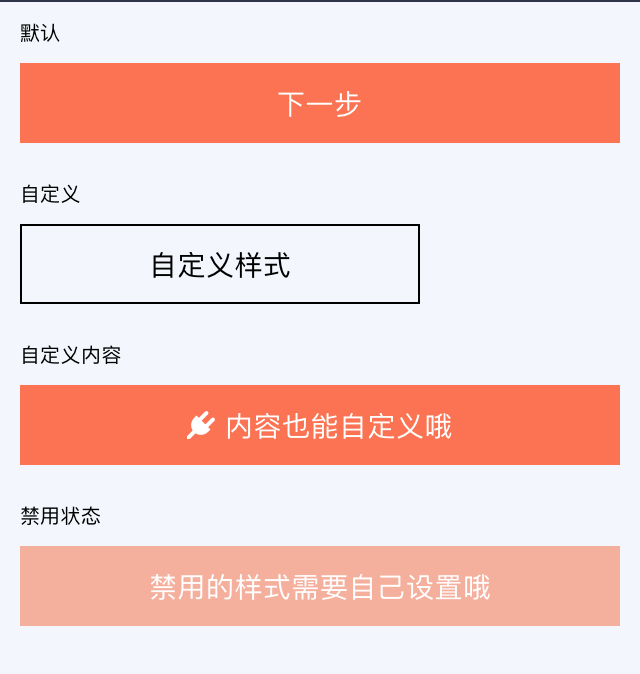
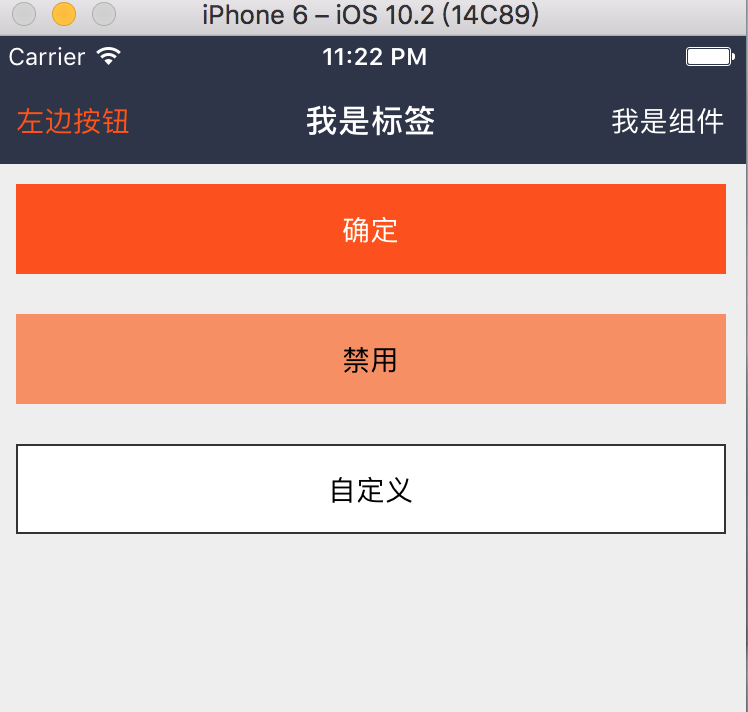
add btn

diff --git a/src/ui/Btn/index.js b/src/ui/Btn/index.js
@@ -1,106 +1,69 @@
 /**
  * 按钮
  */
-import React, {
-  Component,
-  PropTypes,
-} from 'react';
-import {
-  StyleSheet,
-  Text,
-  TouchableOpacity,
-  View,
-} from 'react-native';
+import React from 'react';
+import PropTypes from 'prop-types';
+import { Text, TouchableOpacity, View } from 'react-native';
+import { ACTIVE_OPACITY, NOOP } from '../constant';
+import styles from './style';
 
-import {
-  COLOR_THEME,
-  ACTIVE_OPACITY,
-} from '../constant';
-
-const styles = StyleSheet.create({
-  container: {
-    height: 45,
-    overflow: 'hidden',
-    backgroundColor: COLOR_THEME,
-  },
-  contentContainerStyle: {
-    flex: 1,
-    alignItems: 'center',
-    justifyContent: 'center',
-  },
-  text: {
-    color: '#fff',
-  },
-});
-
-class Btn extends Component {
-  render() {
-    let content = this.props.children;
-    if (typeof content === 'string') {
-      content = (
-        <Text style={[styles.text, this.props.textStyle]}>
-          {content}
-        </Text>
-      );
-    }
-
-    let onPress = this.props.onPress;
-    let activeOpacity = this.props.activeOpacity;
-    if (this.props.disabled) {
-      onPress = null;
-      activeOpacity = 1;
-    }
-
-    return (
-      <View
-        style={[styles.container, this.props.style]}
-        hitSlop={this.props.hitSlop}
-      >
-        <TouchableOpacity
-          activeOpacity={activeOpacity}
-          onPress={onPress}
-          style={[styles.contentContainerStyle, this.props.contentContainerStyle]}
-          hitSlop={this.props.hitSlop}
-        >
-          {content}
-        </TouchableOpacity>
-      </View>
+function Btn(props) {
+  let content = props.children;
+  if (typeof content === 'string') {
+    content = (
+      <Text style={[styles.text, props.btnStyle]}>{content}</Text>
     );
   }
+
+  return (
+    <View style={[styles.container, props.style]}>
+    <TouchableOpacity
+      activeOpacity={props.disabled ? 1 : props.activeOpacity}
+      onPress={props.disabled ? props.onPress : NOOP}
+      style={[styles.contentContainer, props.contentContainerStyle]}
+      hitSlop={props.hitSlop}
+    >
+      {content}
+    </TouchableOpacity>
+  </View>
+  )
 }
 
 Btn.propTypes = {
   // 自定义样式
   style: View.propTypes.style,
+  // 按钮文本样式: 当 children 为字符串时才生效
+  btnStyle: Text.propTypes.style,
+  // 是否禁用: true 时，activeOpacity 为 1, onPress 为 NOOP
+  disabled: PropTypes.bool,
   // 内部容器样式
   contentContainerStyle: View.propTypes.style,
-  // 按钮文本样式（children 为字符串时才生效）
-  textStyle: Text.propTypes.style,
+  // 按钮热区
+  hitSlop: TouchableOpacity.propTypes.hitSlop,
   // 点击回调
   onPress: PropTypes.func,
-  // 按钮内容
-  children: PropTypes.oneOfType([PropTypes.string, PropTypes.element, PropTypes.array]),
   // 点击时透明度反馈
   activeOpacity: PropTypes.number,
-  // 是否禁用，为 true 时，activeOpacity 为 1，onPress 为 null
-  disabled: PropTypes.bool,
+  // 按钮内容
+  children: PropTypes.oneOfType([PropTypes.string, PropTypes.element, PropTypes.array]),
   // 按钮热区
   hitSlop: TouchableOpacity.propTypes.hitSlop,
 };
+
 Btn.defaultProps = {
   style: null,
-  contentContainerStyle: null,
-  textStyle: null,
-  onPress: null,
-  children: '下一步',
-  activeOpacity: ACTIVE_OPACITY,
+  btnStyle: null,
   disabled: false,
+  contentContainerStyle: null,
   hitSlop: {
     top: 0,
     bottom: 0,
     left: 0,
     right: 0,
   },
+  onPress: null,
+  activeOpacity: ACTIVE_OPACITY,
+  children: '确定',
 };
 
 export default Btn;

diff --git a/src/ui/Btn/style.js b/src/ui/Btn/style.js
@@ -1,0 +1,23 @@
+import { StyleSheet } from 'react-native';
+import { ACTIVE_OPACITY } from '../constant';
+
+const COLOR_THEME = '#FF5000';
+
+export default StyleSheet.create({
+  container: {
+    height: 45,
+    overflow: 'hidden',
+    backgroundColor: COLOR_THEME,
+  },
+
+  contentContainer: {
+    flex: 1,
+    alignItems: 'center',
+    justifyContent: 'center',
+  },
+
+  text: {
+    color: '#fff',
+  },
+});
+

diff --git a/src/ui/constant/index.js b/src/ui/constant/index.js
@@ -14,3 +14,5 @@ export const STATUS_BAR_HEIGHT = IS_IOS ? 20 : 0;
 export const HEADER_HEIGHT = IS_IOS ? 44 : 56;
 // 空函数
 export const NOOP = () => {};
+// 点击时不透明度
+export const ACTIVE_OPACITY = 0.8;

diff --git a/src/ui/index.js b/src/ui/index.js
@@ -3,4 +3,5 @@
  */
 
 export { default as All } from './All';
+export { default as Btn } from './Btn';
 export { default as NavBar } from './NavBar';

diff --git a/src/ui/Btn/README.md b/src/ui/Btn/README.md
@@ -1,52 +1,79 @@
-# Btn
+### Btn: 按钮
 
-**按钮**
+### 使用方法
 
-## Demo
+```js
+// 默认
+<Btn />
+
+// 禁用
+<Btn
+  disabled
+  style={{
+    backgroundColor: 'rgba(255, 82, 0, 0.6)'
+  }}
+>
+  <Text>禁用</Text>
+</Btn>
+
+// 自定义
+<Btn
+  style={{
+    backgroundColor: '#FFF',
+    borderWidth: 1,
+    borderColor: '#333'
+  }}
+  btnStyle={{ color: '#666' }}
+>
+  <Text>自定义</Text>
+</Btn>
+```
+
+#### 具体效果
 
 ![](demo.png)
 
-## Example
-
-```js
-import Btn from 'rnx-ui/Btn';
-
-function Example(props) {
-  return (
-    <Btn>自定义样式</Btn>
-  );
-}
-```
-
-## Props
+#### prop
 
 ```js
 Btn.propTypes = {
-  // 自定义样式
+    // 自定义样式
   style: View.propTypes.style,
+  // 按钮文本样式: 当 children 为字符串时才生效
+  btnStyle: Text.propTypes.style,
+  // 是否禁用: true 时，activeOpacity 为 1, onPress 为 NOOP
+  disabled: PropTypes.bool,
   // 内部容器样式
   contentContainerStyle: View.propTypes.style,
-  // 按钮文本样式（children 为字符串时才生效）
-  textStyle: Text.propTypes.style,
+  // 按钮热区
+  hitSlop: TouchableOpacity.propTypes.hitSlop,
   // 点击回调
   onPress: PropTypes.func,
-  // 按钮内容
-  children: PropTypes.oneOfType([PropTypes.string, PropTypes.element, PropTypes.array]),
   // 点击时透明度反馈
   activeOpacity: PropTypes.number,
-  // 是否禁用，为 true 时，activeOpacity 为 1，onPress 为 null
-  disabled: PropTypes.bool,
+  // 按钮内容
+  children: PropTypes.oneOfType([PropTypes.string, PropTypes.element, PropTypes.array]),
   // 按钮热区
   hitSlop: TouchableOpacity.propTypes.hitSlop,
 };
+```
+
+#### 默认值
+
+```js
 Btn.defaultProps = {
   style: null,
-  contentContainerStyle: null,
-  textStyle: null,
-  onPress: null,
-  children: '下一步',
-  activeOpacity: ACTIVE_OPACITY,
+  btnStyle: null,
   disabled: false,
-  hitSlop: {},
+  contentContainerStyle: null,
+  hitSlop: {
+    top: 0,
+    bottom: 0,
+    left: 0,
+    right: 0,
+  },
+  onPress: null,
+  activeOpacity: ACTIVE_OPACITY,
+  children: '确定',
 };
 ```

diff --git a/src/ui/NavBar/README.md b/src/ui/NavBar/README.md
@@ -1,4 +1,4 @@
-### NavBar
+### NavBar: 应用头标题
 
 #### 使用方法
 
